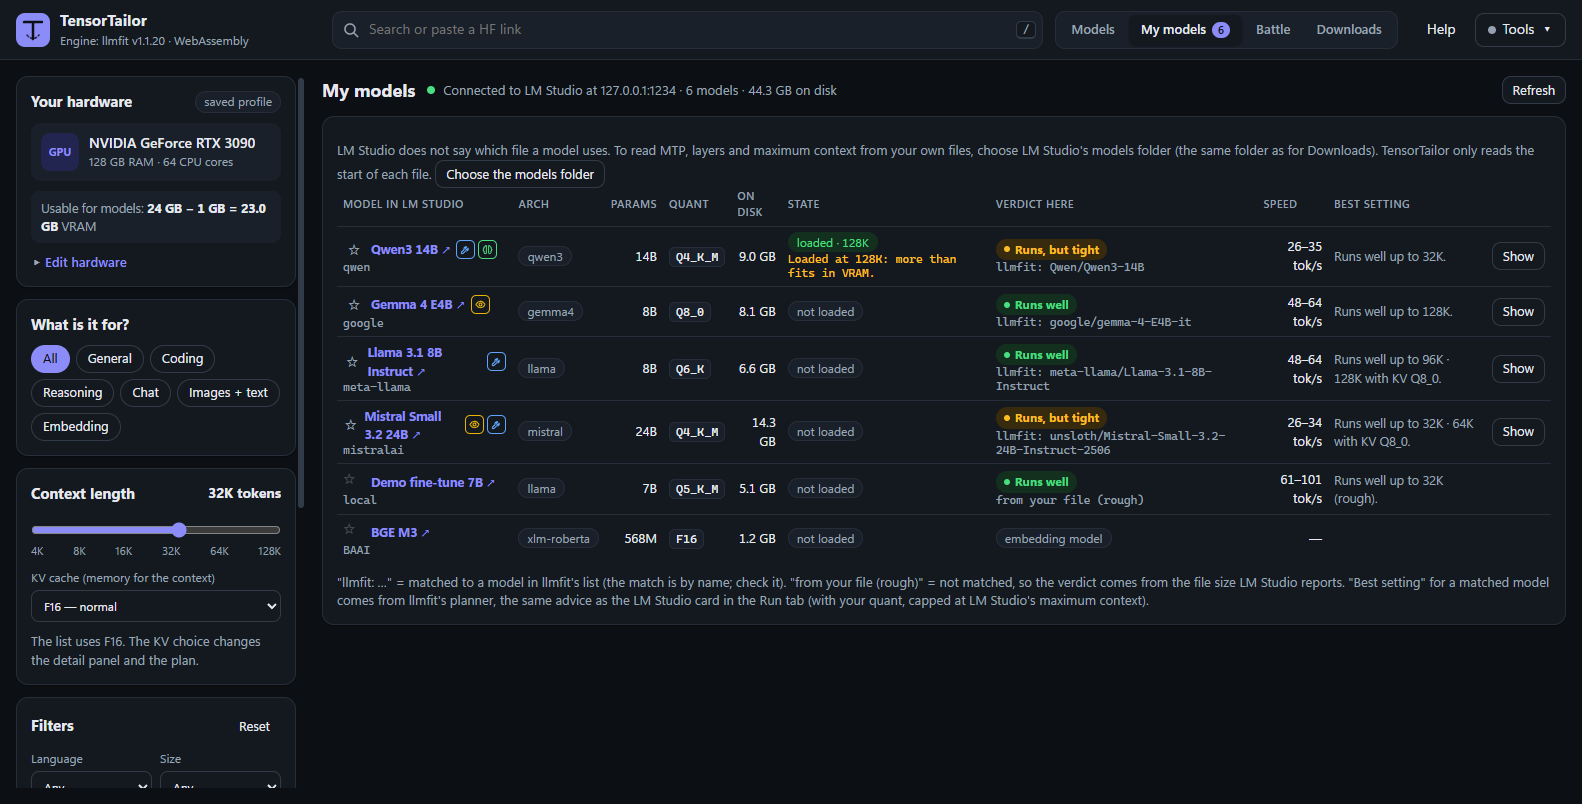
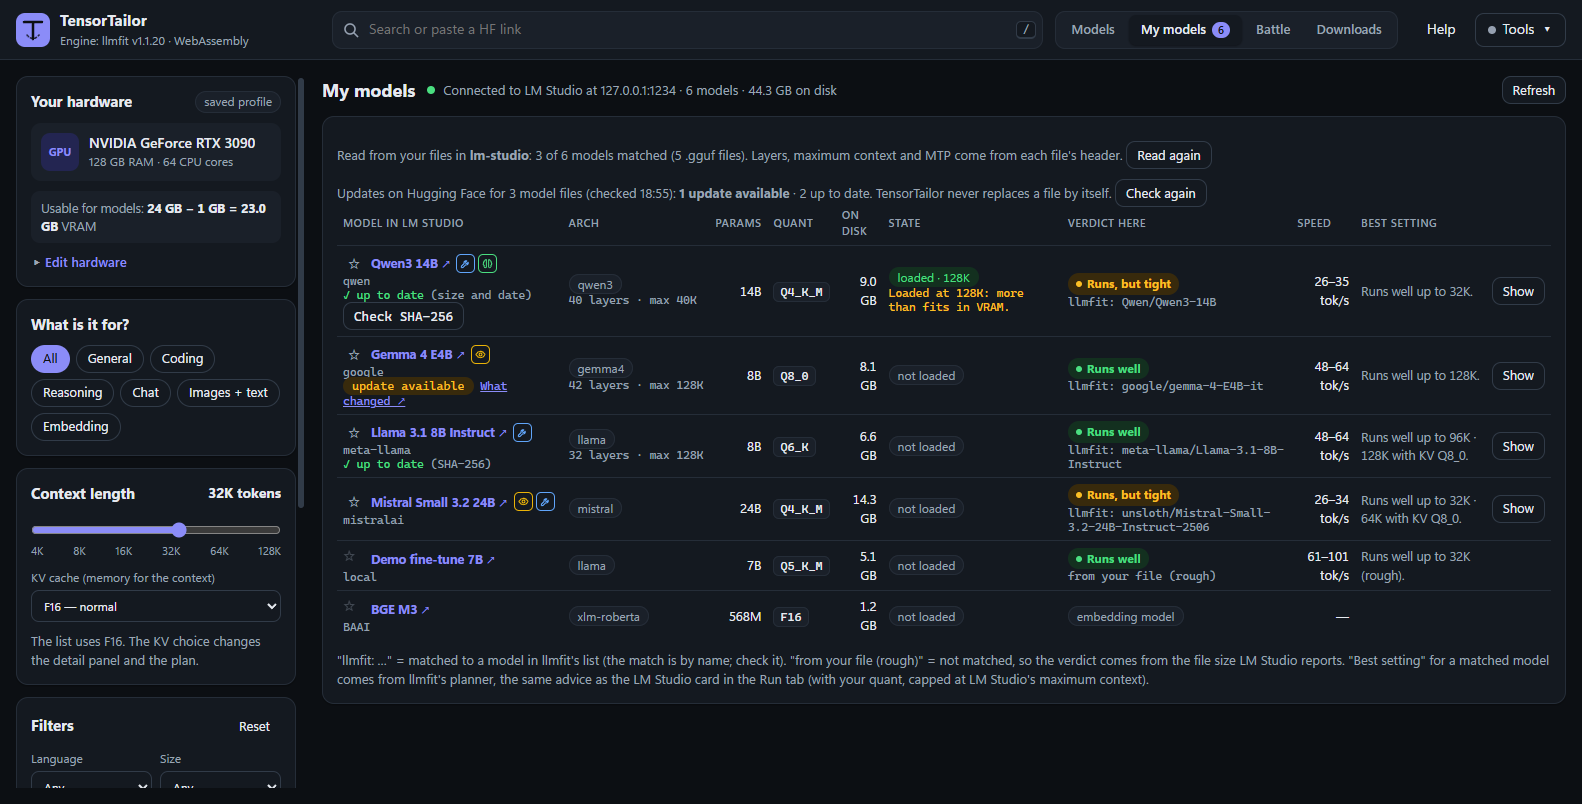
Implemented by Claude Opus 5.5: feat(my-models): show when a model file has a newer version on Hugging Face
One paths-info request per repo (size, SHA-256, last change), kept 24 hours. Check SHA-256 compares the local file exactly. Help row, README and pictures updated; new test tools/test-updates.json.

diff --git a/web/app.html b/web/app.html
@@ -740,6 +740,7 @@ details[open] > .fold-head { margin-bottom: 10px; }
       <dt>My models: your files</dt><dd>My models asks once for LM Studio's models folder (the same folder as for Downloads). TensorTailor matches each model to its file by size and reads only the start of the file. The Arch column then shows the layers and the maximum context ("65 layers · max 256K"); point at it for the KV cache figures (KV heads, head size, how many layers keep the whole context). For models that TensorTailor added itself ("live" or "from LM Studio"), llmfit then counts the KV cache exactly instead of roughly. When LM Studio does not name the quant, the file name tells it.</dd>
       <dt>My models: MTP labels</dt><dd><span class="tag okay">MTP on</span> / <span class="tag">MTP off</span>: LM Studio's own setting for a loaded model. <span class="tag okay">MTP in file</span>: the header of your model file has MTP layers. <span class="tag">MTP (name)</span>: only the name says MTP; read your files to know for sure. "no MTP in file": the name says MTP, the file has none.</dd>
       <dt>My models: Best setting</dt><dd>For a model matched to llmfit's list: the longest context that runs well, from llmfit's planner, the same advice as the LM Studio card in the Run tab ("Runs well up to 32K · 64K with KV Q8_0" = 32K normally, 64K with K and V cache at Q8_0). Capped at LM Studio's maximum. Not matched: a rough estimate from the file size. A loaded model with a longer context than fits gets a warning.</dd>
+      <dt>My models: Updates</dt><dd>After TensorTailor has read your models folder, it asks Hugging Face about each model file and its vision projector (the folder name is the repo; once a day, or <b>Check again</b>). <span class="tag warnish">update available</span>: the file on Hugging Face now has another size or SHA-256; <b>What changed ↗</b> opens its history. <span class="tag">maybe changed</span>: same size, but changed there after your file's date. "✓ up to date (size and date)": same size, not changed since. <b>Check SHA-256</b> reads your whole file from disk (about a minute per 10 GB) and compares it exactly; then it says "(SHA-256)". Files you got with Downloads already have their SHA-256. TensorTailor never replaces or deletes a file.</dd>
       <dt>Battle</dt><dd>2 to 4 models (checkbox in the list, or <b>Add to battle</b> in Top picks) compete on this PC in four rounds: quality, speed, memory and context. One winner is named.</dd>
       <dt>Downloads</dt><dd>Files you download (tab Files → <b>Download</b>). Choose LM Studio's models folder once; each file goes to the publisher's and repo's folder, so LM Studio sees it at once. Files come in parts, so <b>Resume</b> goes on after a crash; at the end the file is read back and its SHA-256 compared with Hugging Face's (<b>Check again</b> reads it once more). A vision model's projector (mmproj) is taken along. <b>Remove from list</b> never deletes a finished model file.</dd>
       <dt>Favorites ★</dt><dd>Click the star next to a model (or press <kbd>W</kbd>) to make it a favorite. <b>Only my favorites</b> (filters) shows just those. My models shows the same stars for your LM Studio models that are matched to llmfit's list; click a star there to add or remove it too.</dd>
@@ -2348,11 +2349,13 @@ async function scanLocalGguf(interactive) {
       const f = matchLocalFile(x, files);
       if (!f) continue;
       const path = (f.dir ? f.dir + "/" : "") + f.name;
+      // Size, date and the File itself: for the update check (and its SHA-256 on request).
+      const disk = { size: f.size, mtime: f.file.lastModified, file: f.file, mmproj: matchProjector(x, f, files) };
       try {
         const h = await ggufHeader(f.file);
         const arch = h.kv["general.architecture"] || "";
-        s.byId.set(x.id, { path, arch, blocks: h.kv[arch + ".block_count"] || null, ctx: h.kv[arch + ".context_length"] || null, layers: Number(h.kv[arch + ".nextn_predict_layers"] || 0), kvf: ggufKvFields(h.kv) });
-      } catch (e) { s.byId.set(x.id, { path, error: e.message }); }
+        s.byId.set(x.id, { path, ...disk, arch, blocks: h.kv[arch + ".block_count"] || null, ctx: h.kv[arch + ".context_length"] || null, layers: Number(h.kv[arch + ".nextn_predict_layers"] || 0), kvf: ggufKvFields(h.kv) });
+      } catch (e) { s.byId.set(x.id, { path, ...disk, error: e.message }); }
     }
     s.done = true;
   } catch (e) {
@@ -2363,6 +2366,162 @@ async function scanLocalGguf(interactive) {
   }
   // With the file paths known (or no folder at all), add the LM Studio models that the list does not have.
   if (s.done || !state.dl.root) linkLmsModels(interactive);
+  if (s.done) checkUpdates(false);
+}
+// The vision projector (mmproj) next to the model file, when LM Studio's size is model + projector.
+function matchProjector(x, f, files) {
+  if (!x.sizeBytes) return null;
+  const slack = Math.min(1024 * 1024, x.sizeBytes * 1e-4);
+  const p = files.filter((p) => p.dir === f.dir && IS_MMPROJ.test(p.name) && Math.abs(x.sizeBytes - f.size - p.size) <= slack)
+    .sort((a, b) => Math.abs(x.sizeBytes - f.size - a.size) - Math.abs(x.sizeBytes - f.size - b.size))[0];
+  return p ? { path: (p.dir ? p.dir + "/" : "") + p.name, size: p.size, mtime: p.file.lastModified, file: p.file } : null;
+}
+/* ---------- My models: is there a newer version on Hugging Face? ---------- */
+// LM Studio (and Downloads) keep a file in <publisher>/<repo>/, so the folder names its Hugging Face repo.
+// Hugging Face's paths-info gives size, SHA-256 and the date of the last change of just these files (one request
+// per repo, remembered 24 hours). Another size = update. Same size: the date says "up to date" or "maybe changed";
+// the exact check (SHA-256 of your whole file, read from disk) runs only on your click and is remembered.
+const UPD_KEY = "tt-updates", UPD_HOURS = 24, LSHA_KEY = "tt-local-sha";
+const loadJsonStore = (key) => { try { return JSON.parse(localStorage.getItem(key) || "{}") || {}; } catch (e) { return {}; } };
+const updStore = loadJsonStore(UPD_KEY), lshaStore = loadJsonStore(LSHA_KEY);
+const updState = { busy: false, error: "", hashing: null, done: 0, ctl: null };
+// Your model files that can be checked: { x, path, repo, inRepo, size, mtime, file, role }.
+function updFilesOf(x) {
+  const loc = state.localGguf.byId.get(x.id);
+  if (!loc || !loc.size) return [];
+  return [[loc, "model"], [loc.mmproj, "projector"]].filter(([f]) => f).map(([f, role]) => {
+    const parts = f.path.split("/");
+    return parts.length >= 3 ? { x, path: f.path, repo: parts[0] + "/" + parts[1], inRepo: parts.slice(2).join("/"), size: f.size, mtime: f.mtime, file: f.file, role } : null;
+  }).filter(Boolean);
+}
+function updFiles() { return state.lms.models.filter((x) => !/embed/i.test(x.type)).flatMap(updFilesOf); }
+// The SHA-256 of your file when it is known: checked here before, or by Downloads at the end of a download.
+function localSha(f) {
+  const s = lshaStore[f.path];
+  if (s && s.size === f.size && s.mtime === f.mtime) return s.sha;
+  const j = state.dl.jobs.find((j) => j.repo === f.repo && j.path === f.inRepo && j.status === "done" && j.gotSha && j.bytes === f.size);
+  return j ? j.gotSha : null;
+}
+function updEntry(f) { const e = updStore[f.path]; return e && e.size === f.size && e.mtime === f.mtime ? e : null; }
+const dayOf = (t) => new Date(t).toISOString().slice(0, 10);
+// One file's state: code = update | maybe | ok | same | gone | norepo | error | unknown.
+function updStatus(f) {
+  const e = updEntry(f);
+  if (!e) return { code: "unknown" };
+  if (e.err) return { code: "error", tip: e.err };
+  if (e.noRepo) return { code: "norepo", tip: `There is no public repo ${f.repo} on Hugging Face (or it is private), so TensorTailor cannot compare this file.` };
+  if (!e.hf) return { code: "gone", tip: `${f.inRepo} is not in ${f.repo} on Hugging Face any more (removed or renamed). Your file still works; look at the repo for its newer files.` };
+  const hf = e.hf, change = hf.date ? `Hugging Face changed it on ${dayOf(hf.date)}${hf.title ? ` ("${hf.title}")` : ""}` : "Hugging Face has another version";
+  if (hf.size !== f.size) return { code: "update", tip: `${change}. Its size is now ${gb(hf.size / 1e9)}, yours is ${gb(f.size / 1e9)}.` };
+  const sha = localSha(f);
+  if (sha && hf.sha) return sha === hf.sha ? { code: "same", tip: `Your file's SHA-256 is the same as on Hugging Face (${hf.sha.slice(0, 12)}…). Last change there: ${dayOf(hf.date)}.` }
+    : { code: "update", tip: `${change}. Same size, but the SHA-256 differs from yours.` };
+  if (!hf.date || Date.parse(hf.date) > f.mtime) return { code: "maybe", tip: `${change}${hf.date ? `, after the date of your file (${dayOf(f.mtime)})` : ""}. The size is the same; Check SHA-256 tells for sure.` };
+  return { code: "ok", tip: `Same size as on Hugging Face, and not changed there since your file's date (last change ${dayOf(hf.date)}, your file ${dayOf(f.mtime)}).` };
+}
+async function checkUpdates(force) {
+  if (updState.busy) return;
+  const byRepo = new Map();
+  for (const f of updFiles()) {
+    const e = updEntry(f);
+    if (!force && e && Date.now() - e.t < UPD_HOURS * 36e5) continue;
+    if (!byRepo.has(f.repo)) byRepo.set(f.repo, []);
+    byRepo.get(f.repo).push(f);
+  }
+  if (!byRepo.size) { if (force && state.view === "mine") renderView(); return; }
+  updState.busy = true; updState.error = "";
+  if (state.view === "mine") renderView();
+  try {
+    for (const [repo, files] of byRepo) {
+      const put = (o) => { for (const f of files) updStore[f.path] = { t: Date.now(), size: f.size, mtime: f.mtime, ...(typeof o === "function" ? o(f) : o) }; };
+      try {
+        const body = new URLSearchParams();
+        for (const f of files) body.append("paths", f.inRepo);
+        body.append("expand", "true");
+        const res = await fetch(`https://huggingface.co/api/models/${repo}/paths-info/main`, { method: "POST", body, headers: hfHeaders() });
+        // Without a token Hugging Face answers 401 for a gated repo (X-Error-Code GatedRepo) and for a repo that is
+        // private or not there.
+        if ((res.status === 401 || res.status === 403) && res.headers.get("X-Error-Code") === "GatedRepo") { put({ err: "The repo is gated: accept its terms on Hugging Face and set your token (Tools → Hugging Face token)." }); continue; }
+        if (res.status === 404 || res.status === 401 || res.status === 403) { put({ noRepo: true }); continue; }
+        if (res.status === 429) throw new Error("Hugging Face asks to slow down (too many requests). Wait a minute, or set your token.");
+        if (!res.ok) { put({ err: "Hugging Face answered " + res.status + "." }); continue; }
+        const info = new Map((await res.json()).filter((t) => t.type === "file").map((t) => [t.path, t]));
+        put((f) => {
+          const t = info.get(f.inRepo);
+          return { hf: t ? { size: t.lfs ? t.lfs.size : t.size, sha: t.lfs ? t.lfs.oid : null, date: t.lastCommit ? t.lastCommit.date : null, title: t.lastCommit ? String(t.lastCommit.title || "").slice(0, 120) : "" } : null };
+        });
+      } catch (e) {
+        if (/slow down/.test(e.message)) throw e;
+        put({ err: "No answer from Hugging Face (offline?): " + e.message });
+      }
+    }
+    updState.at = Date.now();
+  } catch (e) { updState.error = e.message; }
+  finally {
+    updState.busy = false;
+    safeSet("localStorage", UPD_KEY, JSON.stringify(updStore));
+    if (state.view === "mine") renderView();
+  }
+}
+// Exact check: read your whole file from disk and compare its SHA-256 with Hugging Face's.
+async function updHash(path) {
+  if (updState.hashing) { toast("One file at a time: wait until the running check is finished."); return; }
+  if (state.dl.active) { toast("Wait until the running download is finished."); return; }
+  const f = updFiles().find((y) => y.path === path);
+  if (!f) return;
+  updState.hashing = path; updState.done = 0; updState.ctl = new AbortController();
+  let last = 0;
+  renderView();
+  try {
+    const sha = await hashFile(f.file, (done) => { updState.done = done; if (Date.now() - last > 700 && state.view === "mine") { last = Date.now(); renderView(); } }, updState.ctl.signal);
+    lshaStore[f.path] = { size: f.size, mtime: f.mtime, sha, t: Date.now() };
+    const keys = Object.keys(lshaStore);
+    if (keys.length > 500) keys.sort((a, b) => lshaStore[a].t - lshaStore[b].t).slice(0, keys.length - 500).forEach((k) => delete lshaStore[k]);
+    safeSet("localStorage", LSHA_KEY, JSON.stringify(lshaStore));
+    const st = updStatus(f);
+    toast(st.code === "same" ? "SHA-256 is the same as on Hugging Face: your file is up to date." : st.code === "update" ? "SHA-256 differs from Hugging Face: a newer version is available." : "SHA-256 read: " + sha.slice(0, 16) + "…");
+  } catch (e) {
+    if (e.name !== "AbortError") toast(/NotReadable|NotFound/.test(e.name || e.message) ? "The file changed or moved since it was read: press Read again above the list." : "Could not read the file: " + e.message);
+  } finally { updState.hashing = null; updState.ctl = null; renderView(); }
+}
+// The update line under a model's name in My models.
+function updLine(x) {
+  const files = updFilesOf(x);
+  if (!files.length) return "";
+  const sts = files.map((f) => ({ f, st: updStatus(f) }));
+  const tip = sts.map(({ f, st }) => `${f.role === "model" ? "Model file" : "Vision projector"} ${f.inRepo}: ${st.tip || (updState.busy ? "checking…" : "not checked yet")}`).join("\n");
+  const hashing = files.find((f) => f.path === updState.hashing);
+  if (hashing) return `<div class="hash" title="${esc(tip)}">Reading ${esc(hashing.inRepo)} for its SHA-256… ${Math.floor(100 * updState.done / Math.max(hashing.size, 1))} % <button class="btn small" data-updstop="1">Stop</button></div>`;
+  const has = (c) => sts.filter((s) => s.st.code === c);
+  const main = files[0], what = `https://huggingface.co/${main.repo}/commits/main/${main.inRepo.split("/").map(encodeURIComponent).join("/")}`;
+  const shaBtn = (list) => list.length ? ` <button class="btn small" data-updsha="${esc(list[0].f.path)}" title="${esc("Read " + list[0].f.inRepo + " (" + gb(list[0].f.size / 1e9) + ") from disk and compare its SHA-256 with Hugging Face's. Takes about a minute per 10 GB.")}">Check SHA-256</button>` : "";
+  if (has("update").length) return `<div class="hash" title="${esc(tip)}"><span class="tag warnish">update available</span> <a href="${esc(what)}" target="_blank" rel="noopener">What changed ↗</a></div>`;
+  if (has("maybe").length) return `<div class="hash" title="${esc(tip)}"><span class="tag">maybe changed</span>${shaBtn(has("maybe"))}</div>`;
+  if (has("error").length) return `<div class="hash" title="${esc(tip)}">update check: could not check</div>`;
+  if (has("norepo").length === sts.length) return `<div class="hash" title="${esc(tip)}">update check: not on Hugging Face</div>`;
+  if (has("unknown").length) return updState.busy ? `<div class="hash">checking for updates…</div>` : "";
+  const gone = has("gone").length ? ` · ${has("gone").map((s) => s.f.role === "model" ? "file" : "projector").join(" and ")} not on Hugging Face any more` : "";
+  if (!has("ok").length && !has("same").length) return `<div class="hash" title="${esc(tip)}">update check: ${sts.length > 1 ? "file and projector" : "file"} not on Hugging Face any more</div>`;
+  const exact = !has("ok").length;
+  return `<div class="hash" title="${esc(tip)}"><span style="color:var(--perfect)">✓ up to date</span> (${exact ? "SHA-256" : "size and date"})${gone}${exact ? "" : shaBtn(has("ok"))}</div>`;
+}
+// The summary line above the table.
+function updSummaryLine() {
+  if (!state.localGguf.done) return "";
+  const files = updFiles();
+  if (!files.length) return "";
+  if (updState.busy) return `<div class="loading">Asking Hugging Face whether your model files changed…</div>`;
+  const n = { update: 0, maybe: 0, ok: 0, gone: 0, norepo: 0, error: 0, unknown: 0 };
+  let oldest = Infinity;
+  for (const f of files) {
+    const st = updStatus(f), e = updEntry(f);
+    if (e) oldest = Math.min(oldest, e.t);
+    n[st.code === "same" ? "ok" : st.code]++;
+  }
+  const parts = [n.update ? `<b>${n.update} update${n.update === 1 ? "" : "s"} available</b>` : "no updates", n.maybe ? `${n.maybe} maybe changed (same size)` : "", n.ok ? `${n.ok} up to date` : "",
+    n.gone ? `${n.gone} not in their repo any more` : "", n.norepo ? `${n.norepo} in a folder that is not a public Hugging Face repo` : "", n.error ? `${n.error} could not be checked (hover the row)` : "", n.unknown ? `${n.unknown} not checked yet` : ""].filter(Boolean);
+  const when = oldest < Infinity ? ` (checked ${new Date(oldest).toTimeString().slice(0, 5)}${dayOf(oldest) !== dayOf(Date.now()) ? " on " + dayOf(oldest) : ""})` : "";
+  return `<p class="hint">Updates on Hugging Face for ${files.length} model files${when}: ${parts.join(" · ")}. TensorTailor never replaces a file by itself. <button class="btn small" id="btnUpdCheck">Check again</button></p>${updState.error ? `<div class="warn-box">${esc(updState.error)}</div>` : ""}`;
 }
 /* ---------- LM Studio models that llmfit's list does not have ---------- */
 // So "Already in LM Studio" in Models shows every LM Studio model: (1) the model's folder name is its Hugging Face
@@ -2490,7 +2649,7 @@ function localGgufLine() {
   if (s.busy) return `<div class="loading">Reading the GGUF headers of your model files${s.folder ? " in " + esc(s.folder) : ""}…</div>`;
   if (s.error) return `<div class="warn-box">Could not read your model files: ${esc(s.error)}</div><p class="hint">${btn("Try again")}</p>`;
   if (s.done) return `<p class="hint">Read from your files in <b>${esc(s.folder)}</b>: ${s.byId.size} of ${n} models matched (${s.files} .gguf files). Layers, maximum context and MTP come from each file's header. ${btn("Read again")}</p>`;
-  if (!state.dl.root) return `<p class="hint">LM Studio does not say which file a model uses. To read MTP, layers and maximum context from your own files, choose LM Studio's models folder (the same folder as for Downloads). TensorTailor only reads the start of each file. ${btn("Choose the models folder")}</p>`;
+  if (!state.dl.root) return `<p class="hint">LM Studio does not say which file a model uses. To read MTP, layers and maximum context from your own files, and to check them for updates on Hugging Face, choose LM Studio's models folder (the same folder as for Downloads). TensorTailor only reads the start of each file. ${btn("Choose the models folder")}</p>`;
   return `<p class="hint">To read MTP, layers and maximum context from your own files in <b>${esc(state.dl.root.name)}</b>, the browser needs your OK once. TensorTailor only reads the start of each file. ${btn("Read the model files")}</p>`;
 }
 
@@ -2544,7 +2703,7 @@ function viewMine() {
     const locLine = loc ? (loc.error ? `<div class="hash" title="${esc(loc.path)}">file header: ${esc(loc.error)}</div>` : `<div class="hash" title="${esc("GGUF header of " + loc.path + (loc.kvf ? "\n" + kvFieldsText(loc.kvf) + "." : "") + (fileMtp === false ? "\nNo MTP layers in this file." : ""))}">${loc.blocks ? loc.blocks + " layers" : ""}${loc.blocks && loc.ctx ? " · " : ""}${loc.ctx ? "max " + fmtCtx(loc.ctx) : ""}${fileMtp === false && x.mtpName ? " · no MTP in file" : ""}</div>`) : "";
     // The same favorite star as in the Models list (stars belong to models in llmfit's list).
     const star = cat ? `<button class="star" data-watch="${esc(cat.m.id)}" aria-pressed="${state.watch.has(cat.m.id)}" title="${esc("Favorite (same star as in Models): " + cat.m.id)}" aria-label="Favorite ${esc(x.name)}">${state.watch.has(cat.m.id) ? "★" : "☆"}</button>` : `<span class="star" style="opacity:.35;cursor:default" title="Not matched to a model in llmfit's list, so it has no favorite star">☆</span>`;
-    return `<tr><td><div style="display:flex;gap:6px;align-items:center">${star}<a class="d-id" href="${esc(link)}" target="_blank" rel="noopener"><b>${esc(x.name)}</b> ↗</a>${capIcons(lmsCaps)}</div><div class="hash">${esc(x.publisher)}${bundled ? ` <span class="tag" title="${esc(LMS_BUNDLED_TIP)}">bundled with LM Studio</span>` : ""}</div></td>
+    return `<tr><td><div style="display:flex;gap:6px;align-items:center">${star}<a class="d-id" href="${esc(link)}" target="_blank" rel="noopener"><b>${esc(x.name)}</b> ↗</a>${capIcons(lmsCaps)}</div><div class="hash">${esc(x.publisher)}${bundled ? ` <span class="tag" title="${esc(LMS_BUNDLED_TIP)}">bundled with LM Studio</span>` : ""}</div>${isEmb ? "" : updLine(x)}</td>
       <td style="white-space:nowrap">${x.arch ? `<span class="tag" title="Architecture: the model design that llama.cpp (inside LM Studio) uses to run it, read from the model file by LM Studio.">${esc(x.arch)}</span>` : "—"}${mtpArch ? ` <span class="tag okay" title="${esc(MTP_WHAT + "\n" + mtpWhy)}">MTP</span>` : ""}${locLine}</td>
       <td class="r">${esc(x.paramsStr || (x.params ? fmtParams(x.params) : "—"))}</td>
       <td><span class="quant">${esc(x.quantization || "—")}</span></td><td class="r">${x.sizeGB ? gb(x.sizeGB) : "—"}</td>
@@ -2554,7 +2713,7 @@ function viewMine() {
       <td class="r" style="white-space:nowrap">${cat ? `<button class="btn small" data-show="${esc(cat.m.id)}">Show</button>` : ""}</td></tr>`;
   }).join("");
   return `<div class="view-head"><h1>My models</h1><span class="status-line"><span class="dot ok"></span>Connected to LM Studio at 127.0.0.1:1234 · ${s.models.length} models · ${gb(totalGB)} on disk</span><span class="spacer"></span><button class="btn small" id="btnLmsRefresh">Refresh</button></div>
-    <section class="card">${localGgufLine()}${lmsLinkLine()}<table class="mtable"><thead><tr><th>Model in LM Studio</th><th title="Architecture (model design), as LM Studio reports it">Arch</th><th class="r" title="Number of parameters, as LM Studio reports it">Params</th><th>Quant</th><th class="r">On disk</th><th>State</th><th>Verdict here</th><th class="r">Speed</th><th>Best setting</th><th></th></tr></thead><tbody>${rows}</tbody></table>
+    <section class="card">${localGgufLine()}${updSummaryLine()}${lmsLinkLine()}<table class="mtable"><thead><tr><th>Model in LM Studio</th><th title="Architecture (model design), as LM Studio reports it">Arch</th><th class="r" title="Number of parameters, as LM Studio reports it">Params</th><th>Quant</th><th class="r">On disk</th><th>State</th><th>Verdict here</th><th class="r">Speed</th><th>Best setting</th><th></th></tr></thead><tbody>${rows}</tbody></table>
       <p class="hint">"llmfit: …" = matched to a model in llmfit's list (the match is by name; check it). "from your file (rough)" = not matched, so the verdict comes from the file size LM Studio reports. "Best setting" for a matched model comes from llmfit's planner, the same advice as the LM Studio card in the Run tab (with your quant, capped at LM Studio's maximum context).</p></section>`;
 }
 
@@ -3179,6 +3338,9 @@ function wire() {
     if (t.id === "btnLmsLoadGo") { runLmsLoad(); return; }
     if (t.id === "btnNotices") { showAboutText("notices"); return; }
     if (t.id === "btnLocalGguf") { scanLocalGguf(true); return; }
+    if (t.id === "btnUpdCheck") { checkUpdates(true); return; }
+    const us = t.closest("[data-updsha]"); if (us) { updHash(us.dataset.updsha); return; }
+    if (t.closest("[data-updstop]")) { if (updState.ctl) updState.ctl.abort(); return; }
     if (t.id === "btnLicTexts") { showAboutText("licenses"); return; }
     if (t.id === "btnBattlePng") { battlePng(); return; }
   });

diff --git a/README.md b/README.md
@@ -23,7 +23,9 @@ as WebAssembly. Every build checks that the page gives exactly the same answers 
   setting (the same advice as tab Run). Give it LM Studio's models folder once, and it reads the header of each model file: layers, maximum
   context and MTP, like LM Studio itself shows them, and the size of the KV cache (the memory for the context). LM Studio models that llmfit's list does not have are added
   by themselves (read live from Hugging Face, or made from LM Studio's own data), so the filter **Already in LM
-  Studio** in Models shows all of them.
+  Studio** in Models shows all of them. It also asks Hugging Face once a day whether each model file changed there
+  (**update available**, with a link to what changed); **Check SHA-256** compares your file exactly. Nothing is
+  replaced or deleted.
 - **Keep favorites.** Click the star ☆ next to a model (or press `W`). **Only my favorites** shows just those,
   and My models shows the same stars.
 - **Compare.** Tick 2 to 4 models and press **Compare**, or let them fight in **Battle**.
@@ -145,6 +147,7 @@ use made-up demo data.
 | `tools/test-sha256.mjs` | Checks the page's SHA-256 against Node's crypto and measures its speed |
 | `tools/test-downloads.json` | Download test: pause, reload, resume, join, SHA-256, damaged file, remove (run with `CDP_SERVE_DIR`) |
 | `tools/test-lms-load.json` | "Load in LM Studio" test: every load and unload is caught, nothing really loads |
+| `tools/test-updates.json` | Update check in My models: a real 1.2 MB GGUF and made-up files in test storage, Hugging Face's paths-info, SHA-256 (run with `CDP_SERVE_DIR`) |
 | `tools/readme-screenshots.json` | The steps that make the README pictures (with demo data) |
 | `docs/screenshots/` | The README pictures, light and dark |
 | `.github/actions/build/` | The build steps, shared by both workflows |
